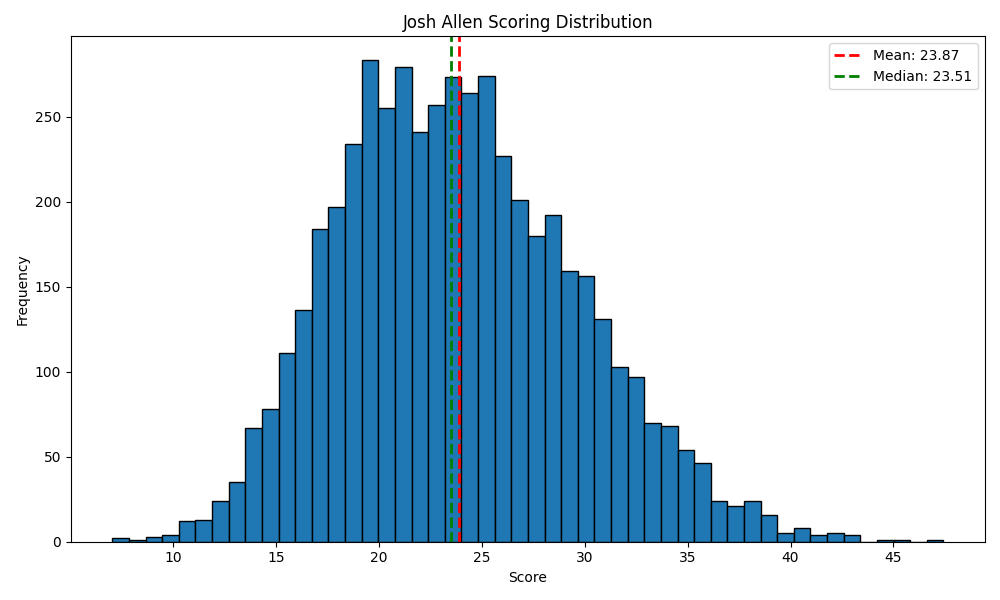
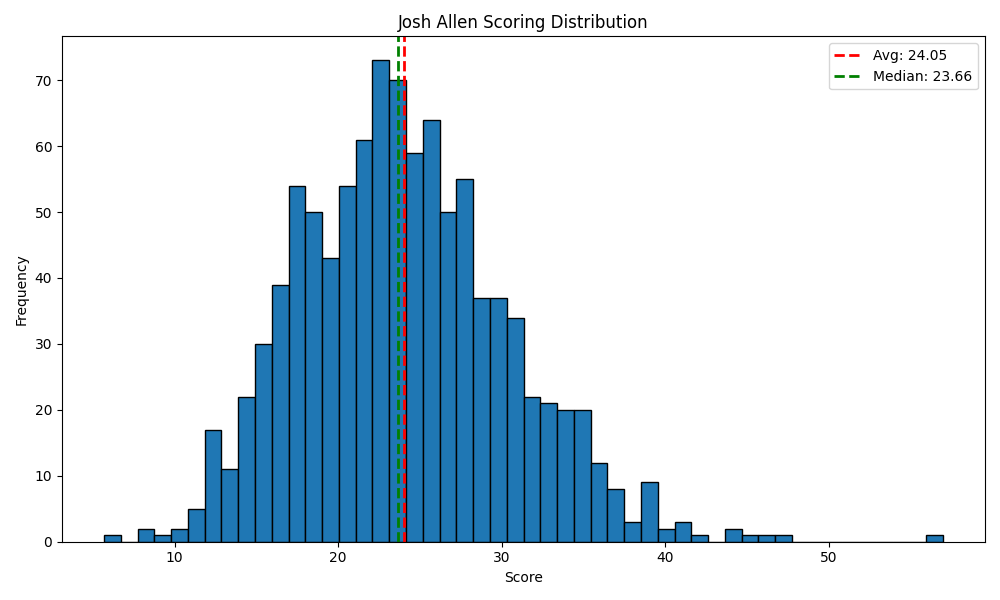
moved to log normal to generating scores

diff --git a/sim/SimulationVisualizer.py b/sim/SimulationVisualizer.py
@@ -1,6 +1,7 @@
 import matplotlib.pyplot as plt
 import numpy as np
 import os
+import shutil
 
 class SimulationVisualizer:
     def __init__(self, league):
@@ -9,11 +10,15 @@ class SimulationVisualizer:
     def plot_scoring_distributions(self, tracker):
         positions = ['QB', 'RB', 'WR', 'TE']
         
+        # Clear existing plots
+        if os.path.exists('plots'):
+            shutil.rmtree('plots')
+        
         for position in positions:
             top_players = self._get_top_players(tracker, position)
             
             if top_players:
-                self._plot_and_save_histograms(top_players, position)
+                self._plot_and_save_histograms(top_players, position, tracker)
             else:
                 print(f"No data for {position}")
 
@@ -24,39 +29,38 @@ class SimulationVisualizer:
         
         player_stats = []
         for player in players:
-            stats = tracker.get_player_stats(player.sleeper_id)
-            if stats:
-                player_stats.append((player, stats['avg_score'], stats['all_scores']))
+            avg_score, total_scores, games_played, min_score, max_score = tracker.get_player_average_score(player.sleeper_id)
+            if games_played > 0:
+                player_stats.append((player, avg_score, tracker.player_scores[player.sleeper_id]))
         
         # Sort players by average score and get top 10
         sorted_players = sorted(player_stats, key=lambda x: x[1], reverse=True)[:10]
         
         return sorted_players
 
-    def _plot_and_save_histograms(self, top_players, position):
+    def _plot_and_save_histograms(self, top_players, position, tracker):
         os.makedirs(f'plots/{position}', exist_ok=True)
         
-        for player, avg_score, scores in top_players:
-            scores = [score for score in scores if score > 0]  # Exclude non-playing weeks
+        for player, avg_score, scores_dict in top_players:
+            scores = [score for week_scores in scores_dict.values() for score in week_scores if score > 0]
             
             fig, ax = plt.subplots(figsize=(10, 6))
-            self._plot_histogram(ax, scores, player.name)
+            self._plot_histogram(ax, scores, player.name, avg_score)
             
             plt.tight_layout()
             plt.savefig(f'plots/{position}/{player.name.replace(" ", "_")}.png')
             plt.close(fig)
             print(f"Saved plot for {player.name} ({position})")
 
-    def _plot_histogram(self, ax, scores, player_name):
+    def _plot_histogram(self, ax, scores, player_name, avg_score):
         ax.hist(scores, bins=50, edgecolor='black')
         ax.set_title(f'{player_name} Scoring Distribution')
         ax.set_xlabel('Score')
         ax.set_ylabel('Frequency')
         
         if scores:
-            mean_score = np.mean(scores)
             median_score = np.median(scores)
-            ax.axvline(mean_score, color='r', linestyle='dashed', linewidth=2, label=f'Mean: {mean_score:.2f}')
+            ax.axvline(avg_score, color='r', linestyle='dashed', linewidth=2, label=f'Avg: {avg_score:.2f}')
             ax.axvline(median_score, color='g', linestyle='dashed', linewidth=2, label=f'Median: {median_score:.2f}')
             ax.legend()
         else:

diff --git a/custom_dataclasses/player.py b/custom_dataclasses/player.py
@@ -277,16 +277,24 @@ class Player:
         avg_rec_td = max(0, float(proj.recv_td or 0) / games)
 
         # Define the shift amount and the adjustment factor
-        shift_amount = 2.0  # Adjust this value as needed
+        shift_amount = 0.0  # Adjust this value as needed
         adjustment_factor = 1.5  # Adjust this factor to control the steepness
 
         # Generate stats using log-normal distribution with adjustment factor
-        pass_yds = random.gauss(avg_pass_yds, avg_pass_yds * 0.2) if avg_pass_yds > 0 else 0
-        rush_yds = random.gauss(avg_rush_yds, avg_rush_yds * 0.2) if avg_rush_yds > 0 else 0
-        receptions = random.gauss(avg_receptions, avg_receptions * 0.2) if avg_receptions > 0 else 0
+        pass_yds = self.log_normal(avg_pass_yds, avg_pass_yds * 0.2, shift_amount, adjustment_factor)
+        rush_yds = self.log_normal(avg_rush_yds, avg_rush_yds * 0.2, shift_amount, adjustment_factor)
+        receptions = self.log_normal(avg_receptions, avg_receptions * 0.2, shift_amount, adjustment_factor)
         rec_yds = random.gauss(avg_rec_yds, avg_rec_yds * 0.2) if avg_rec_yds > 0 else 0
         
         receptions = math.ceil(receptions)  # Round receptions to whole numbers
+        
+        # Generate receiving yards based on receptions
+        if receptions > 0:
+            avg_yards_per_reception = avg_rec_yds / avg_receptions if avg_receptions > 0 else 10  # Default to 10 yards per reception if no data
+            yards_per_reception = random.gauss(avg_yards_per_reception, avg_yards_per_reception * 0.2)
+            rec_yds = max(0, receptions * yards_per_reception)
+        else:
+            rec_yds = 0
         
         avg_pass_td = float(proj.pass_td or 0) / games
         pass_td = random.choices([0, 1, 2, 3, 4], 

diff --git a/main.py b/main.py
@@ -28,7 +28,7 @@ def main():
     # Run Monte Carlo Simulation
     input("Press Enter to run Monte Carlo Simulation")
     os.system('cls' if os.name == 'nt' else 'clear')
-    monte_carlo = MonteCarloSimulation(league, num_simulations=300)
+    monte_carlo = MonteCarloSimulation(league, num_simulations=60)
     monte_carlo.run()
 
 
